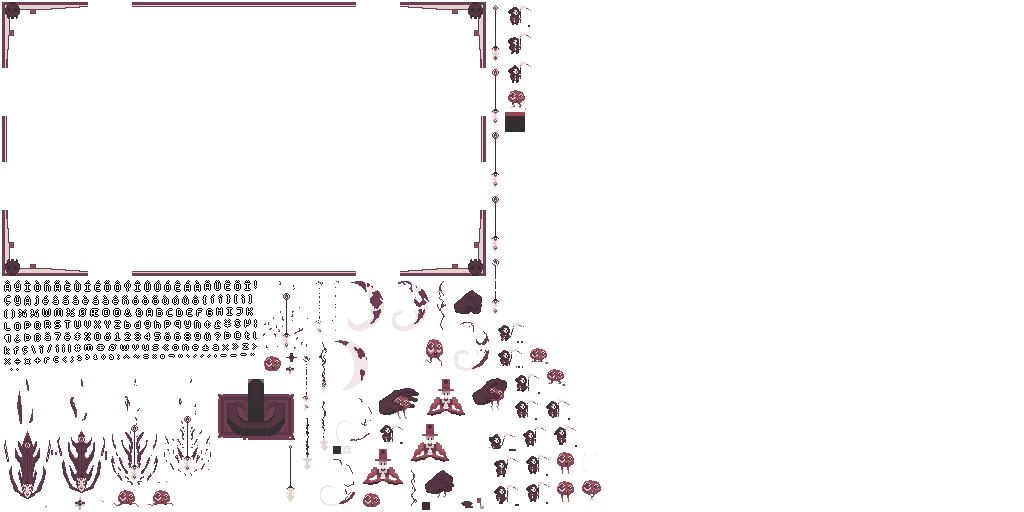
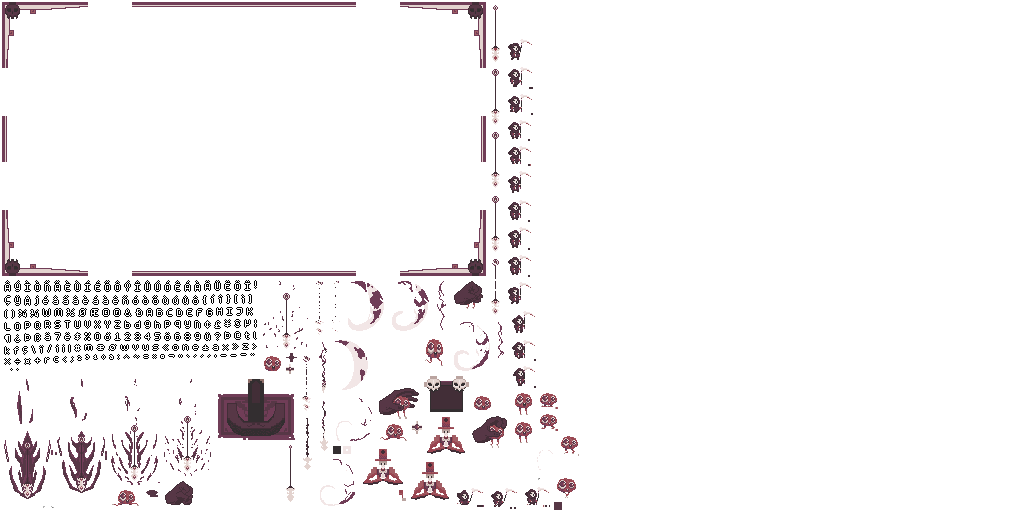
art: tweak uiPanel

diff --git a/game/src/commonMain/kotlin/com/lehaine/game/scene/MenuScene.kt b/game/src/commonMain/kotlin/com/lehaine/game/scene/MenuScene.kt
@@ -5,12 +5,8 @@ import com.lehaine.game.Config
 import com.lehaine.littlekt.Context
 import com.lehaine.littlekt.graph.node.Node
 import com.lehaine.littlekt.graph.node.component.HAlign
-import com.lehaine.littlekt.graph.node.ui.button
-import com.lehaine.littlekt.graph.node.ui.centerContainer
-import com.lehaine.littlekt.graph.node.ui.label
-import com.lehaine.littlekt.graph.node.ui.vBoxContainer
+import com.lehaine.littlekt.graph.node.ui.*
 import com.lehaine.littlekt.util.viewport.ExtendViewport
-import com.lehaine.rune.engine.RuneScene
 import com.lehaine.rune.engine.RuneSceneDefault
 
 
@@ -23,31 +19,39 @@ class MenuScene(
             anchorRight = 1f
             anchorBottom = 1f
 
-            vBoxContainer {
-                separation = 10
+            panelContainer {
+                paddedContainer {
+                    paddingTop = 25
+                    paddingLeft = 10
+                    paddingBottom = 10
+                    paddingRight = 10
+                    vBoxContainer {
+                        separation = 10
 
-                label {
-                    text = "Main Menu"
-                    font = Assets.pixelFont
-                    horizontalAlign = HAlign.CENTER
-                    fontScaleX = 2f
-                    fontScaleY = 2f
-                }
+                        label {
+                            text = "Main Menu"
+                            font = Assets.pixelFont
+                            horizontalAlign = HAlign.CENTER
+                            fontScaleX = 2f
+                            fontScaleY = 2f
+                        }
 
-                button {
-                    var startingGame = false
-                    text = "Start Game"
+                        button {
+                            var startingGame = false
+                            text = "Start Game"
 
-                    onPressed += {
-                        if (!startingGame) {
-                            startingGame = true
-                            changeTo(GameScene(context))
+                            onPressed += {
+                                if (!startingGame) {
+                                    startingGame = true
+                                    changeTo(GameScene(context))
+                                }
+                            }
+                        }
+
+                        button {
+                            text = "Settings"
                         }
                     }
-                }
-
-                button {
-                    text = "Settings"
                 }
             }
         }

diff --git a/game/src/commonMain/kotlin/com/lehaine/game/Assets.kt b/game/src/commonMain/kotlin/com/lehaine/game/Assets.kt
@@ -49,7 +49,7 @@ class Assets private constructor(context: Context) : Disposable {
         assets.prepare {
             val button9p = NinePatch(atlas.getByPrefix("uiButton").slice, 0, 0, 0, 0)
             val buttonHighlight9p = NinePatch(atlas.getByPrefix("uiButtonHighlight").slice, 0, 0, 0, 0)
-            val panel9p = NinePatch(atlas.getByPrefix("uiPanel").slice, 0, 0, 2, 0)
+            val panel9p = NinePatch(atlas.getByPrefix("uiPanel").slice, 15, 15, 15, 1)
             val outline9p = NinePatch(atlas.getByPrefix("uiOutline").slice, 1, 1, 1, 1)
 
             val theme = createDefaultTheme(
